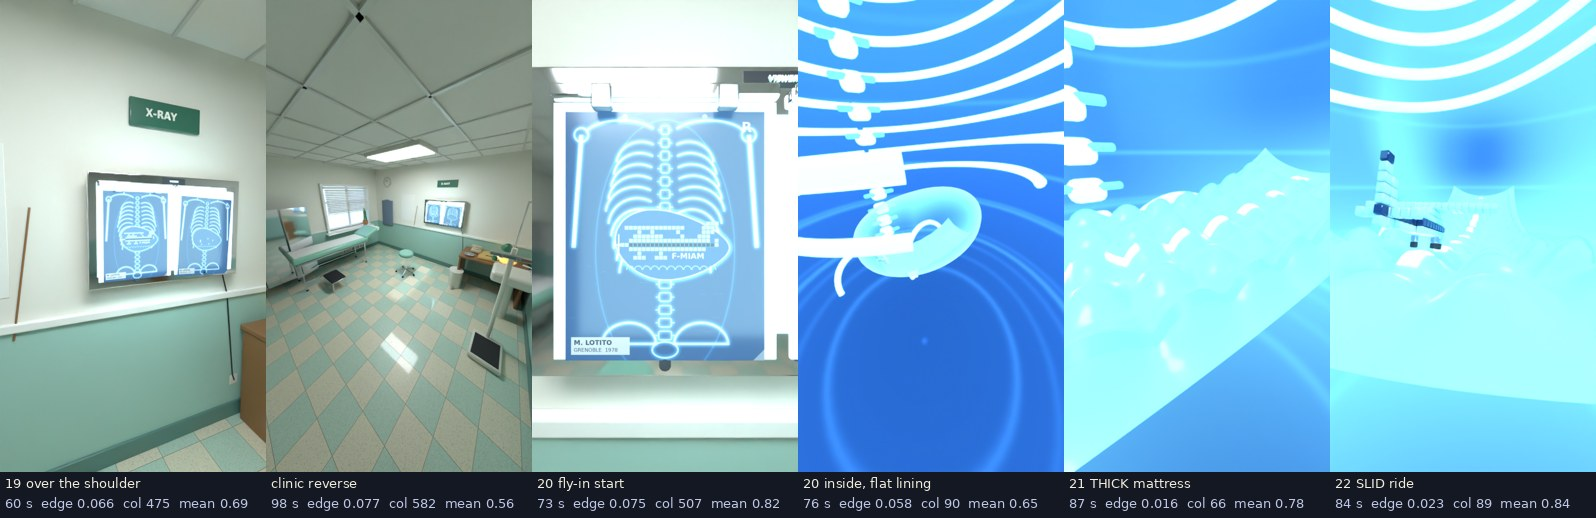
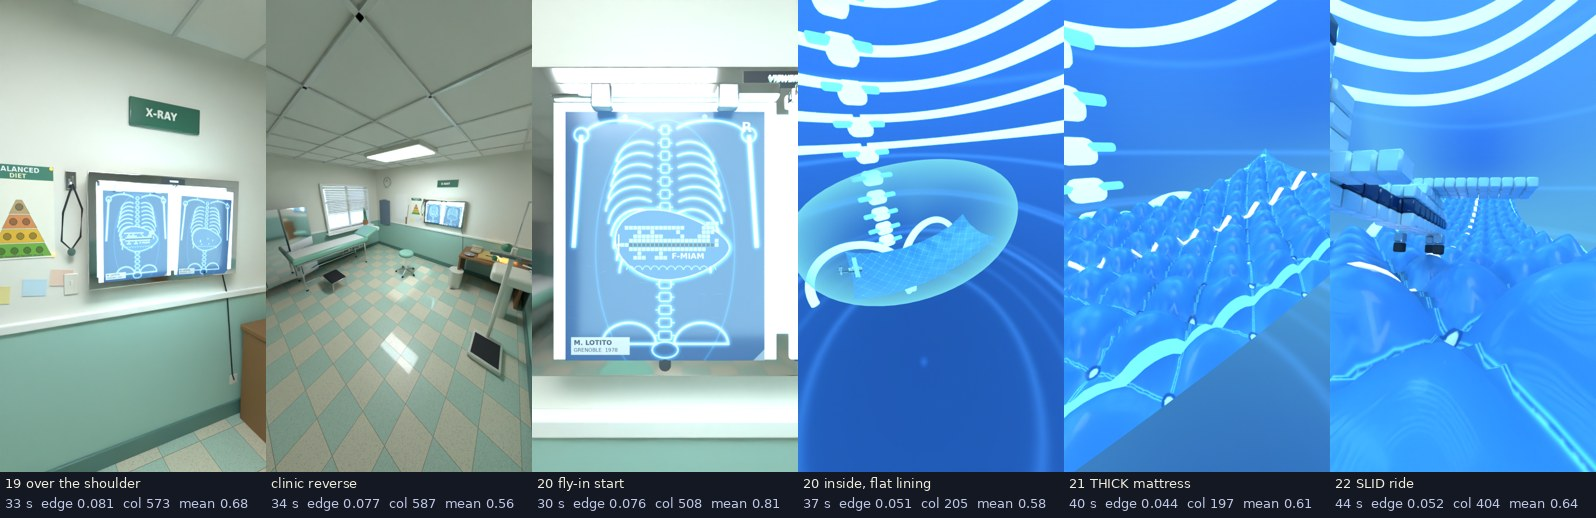
plane-eater: X-ray and cabin sets v2
Claude-Session: https://claude.ai/code/session_01DrjR3Ltb34YxYG9MboPX6s

diff --git a/episodes/plane-eater/sets/xray/STATE.md b/episodes/plane-eater/sets/xray/STATE.md
@@ -10,6 +10,13 @@
 - Gates (density_check --day): shoulder 1/7, wide 4/7, film 4/7, inside 1/7, lining 2/7, ride 1/7. Edge density 0.016-0.077 vs Rick bar 0.086.
 - Kit module xray.js: syntax-checked only, not rendered in the kit. The backdrop sphere needs side BackSide in the kit (flipped normals may not survive).
 - No close-up detail pairs measured against Rick (only one ours-vs-Rick sheet: crew/set-builder_vs_rick.jpg, private, holds Rick frames).
+## FIX 1 (lead round, 2026-11-21) - result, sheet re-rendered
+- Done: X-ray world no longer washed out (inside .58, lining .61, ride .64; colours 205/197/404 from 90/66/89); diamond button-tufted mattress (quilt.png +
+  diamond grooves in the shape key, 150x60 grid); stomach bigger in row 20 (CAM_INSIDE moved in); ride camera closer, the bite-Cessna reads with its navy stripe;
+  wall left of the box dressed (BALANCED DIET poster with pins + slips, coat hook + stethoscope, light switch, thermometer; chart and apron moved left).
+- Still weak: row 21 shows a hard flat diagonal edge at the bottom right (the stomach wall interior / lining edge, check next); row 20 bean still sits under a
+  rib and the Cessna is tiny there; means .58-.64 are above the lead's .45 target; edge .044-.052 vs Rick .086. Clinic tiles .68/.56/.81 still bright.
+- Gates now: shoulder 2/7 (edge .081), wide 4/7, film 4/7, inside 2/7, lining 2/7, ride 3/7. Tris: clinic 35,230, X-ray world 53,348, total 88,578 (GLB 3.96 MB).
 ## Built
 - scripts/tex_xray.py (film_hero = the signature: cyan skeleton on #2f6fb3, bean stomach, Cessna of square bites with navy stripe, F-MIAM, label M. LOTITO
   GRENOBLE 1978; film_before; lino; eye chart; world backdrop), scripts/bl_xray.py, build_xray.sh, ../pe_bl.py (helpers), ../pe_proof.py, ../pe_sheet.py, ../run_proofs.sh.

diff --git a/episodes/plane-eater/sets/cabin/STATE.md b/episodes/plane-eater/sets/cabin/STATE.md
@@ -8,6 +8,13 @@
 - Tray table hangs too low/far from Michel's seat (reads beside the seat); meal reads small and pale; the bite on tray_table_bitten is not readable at CAM_TRAY.
 - Gates (density_check --day): two 1/7 (black), tray 3/7, traybitten 3/7, window 2/7; edge .050-.051 vs bar .086.
 - Kit module cabin.js: syntax-checked only, not rendered. No airline name on the headrest covers (lead to decide).
+## FIX 1 (lead round, 2026-11-21) - result, sheet re-rendered
+- Done: CAM_TWO in the aisle (row 35 renders: edge .075, 5/7 gates); exposure down (means .51-.57 from .79-.82); tray table moved to Michel's seat (x .28,
+  z .76) with a bigger corner bite (r 9 cm) that reads in row 37; headrest covers carry AIR VILLEBRUNE in navy (#1d3461); sky low band bluer; the wing bite is
+  placed by script where the CAM_WINDOW window ray meets the leading edge (BITE_Y 6.8, ray z .79 = wing z .78).
+- Still weak: row 38 window reads grey and small, the bite/cloud deck is NOT readable through it (window too small at that distance; needs a closer window station
+  or a bigger window share); seatbacks in rows 36-37 are big plain white shells (add a seat-back pocket print, latch, literature card); edge .043-.075 vs .086.
+- Gates now: two 5/7, tray 2/7, traybitten 2/7, window 4/7. Tris: cabin 199,546 (lettering added), outside 62,292, total 261,838 (GLB 9.59 MB).
 ## Built
 - scripts/tex_cabin.py (carpet, blue weave fabric, sky gradient, SAFETY card), scripts/bl_cabin.py, build_cabin.sh; out/cabin.blend (cams CAM_TWO, CAM_TRAY,
   CAM_WINDOW), out/cabin_lite.glb (7.2 MB), out/cabin_meta.json (anchors, cams, states). ../cabin.js (bitten, foil, pea, keys). ../cabin_STORY.md, ../cabin_DRESSING.md.
